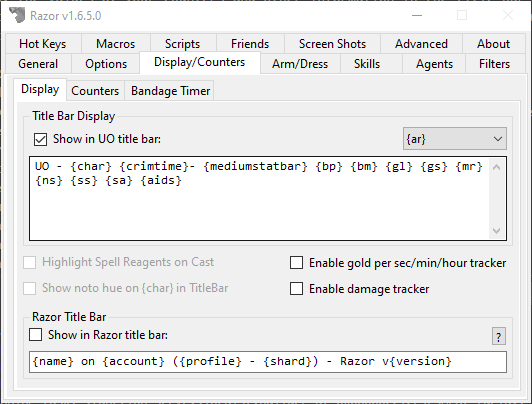
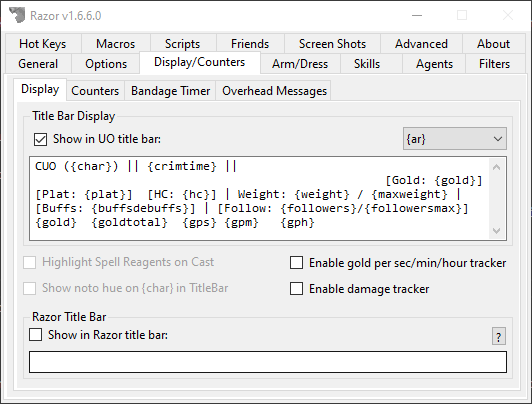
[chore] Update docs to reflect UI change

diff --git a/help/docs/help/displaycounters.md b/help/docs/help/displaycounters.md
@@ -113,3 +113,35 @@ Click **Recount** to force Razor to check all the containers on your character a
 
 * **Show bandage timer**
     - When you have this enabled, when you use a bandage a timer will display.
+
+## Overhead Messages
+
+![overhead](../images/overhead.png)
+
+Check `Enabled` to turn on the overhead messages feature.
+
+This option will display messages above your head that are triggered based on system messages in the lower-left that come in from the server. For example, when the message `You begin applying bandages.` comes through, you can have the message `[Applying bandages]` appear above your head.
+
+!!! tip "Expand Overhead Messages"
+    You can extract specific words from the system message to display in the overhead messages (`{1}` for the first word, `{2}` for the second word, etc).
+    If the system message is `You must wait 80 seconds!`, you can set the overhead message to `Wait {4}s` and it would display `Wait 80s` overhead.
+
+| Option | Description |
+| ------ | ----------- |
+| Format | Set the format of the overhead message. It must contain `{msg}` for your custom message to appear. Default is `[{msg}]`.|
+| Message Style | Set the message style to appear overhead depending on your preference. Default is `Unicode`. |
+
+### Create Overhead Message
+
+* Enter part of the message or the whole message into the `Search Text` field.
+* (Optional) If you need help finding the message, click `Search` and select the message you want to capture.
+
+!!! tip
+    If your message is custom to your shard and not on the search list, simply click `Add` to capture it. It doesn't need to be a static message in the client files.
+
+* Click `Add` and enter the message you want to appear overhead and click `OK`.
+* Your overhead message capture will appear at the bottom of the list.
+
+### Demo
+
+![overheaddemo](../images/overheaddemo.gif)

diff --git a/help/docs/help/options.md b/help/docs/help/options.md
@@ -40,17 +40,7 @@
 
 * **Show New/Incoming Corpses**
     - As above, but with corpses.
-### Overhead Messages
 
-* **Show overhead messages**
-
-![overhead](../images/overhead.png)
-
-This option will display messages above your head that are triggered based on system messages in the lower-left that come in from the server. For example, when the message `You begin applying bandages.` comes through, you can have the message `[Applying bandages]` appear above your head.
-
-!!! tip "Expand Overhead Messages"
-    You can extract specific words from the system message to display in the overhead messages (`{1}` for the first word, `{2}` for the second word, etc).
-    If the system message is `You must wait 80 seconds!`, you can set the overhead message to `Wait {4}s` and it would display `Wait 80s` overhead.
 * **Show container labels**
     - This option will allow you to tag containers and give them a label. This should allow for easier pixel sorting.
     - **Default Format** `[{label}] ({name})`

diff --git a/help/docs/faq.md b/help/docs/faq.md
@@ -52,3 +52,7 @@ Scripts are stored in the `Scripts` folder and saved with the `.razor` file exte
 
 !!! warning
     Files not listed here the related binaries required for Razor to work. They include files ending with `.dll, .lib, .exe, .exp, .pdb` and **_should not_** be part of restoring Razor files between installations.
+
+# Overhead Messages
+
+For details on how to use the Overhead Messages feature, view the [help guide](help/displaycounters.md#overhead-messages).
